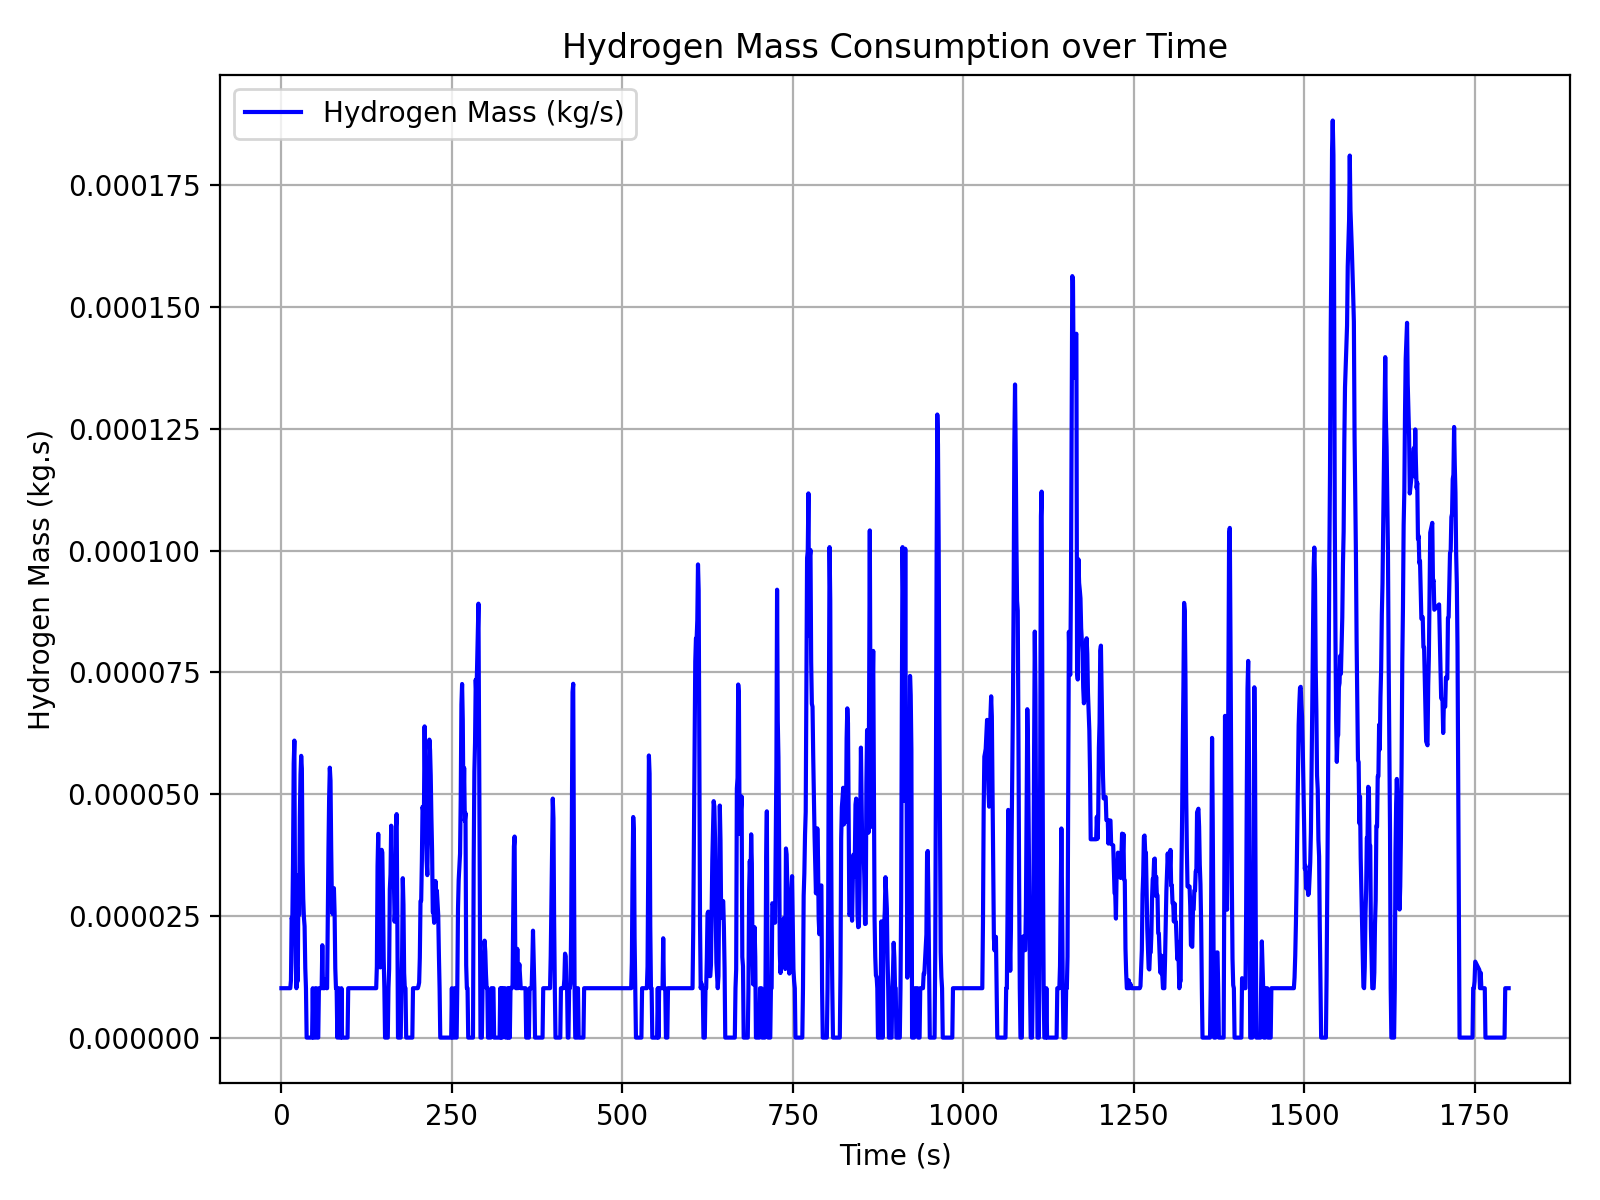
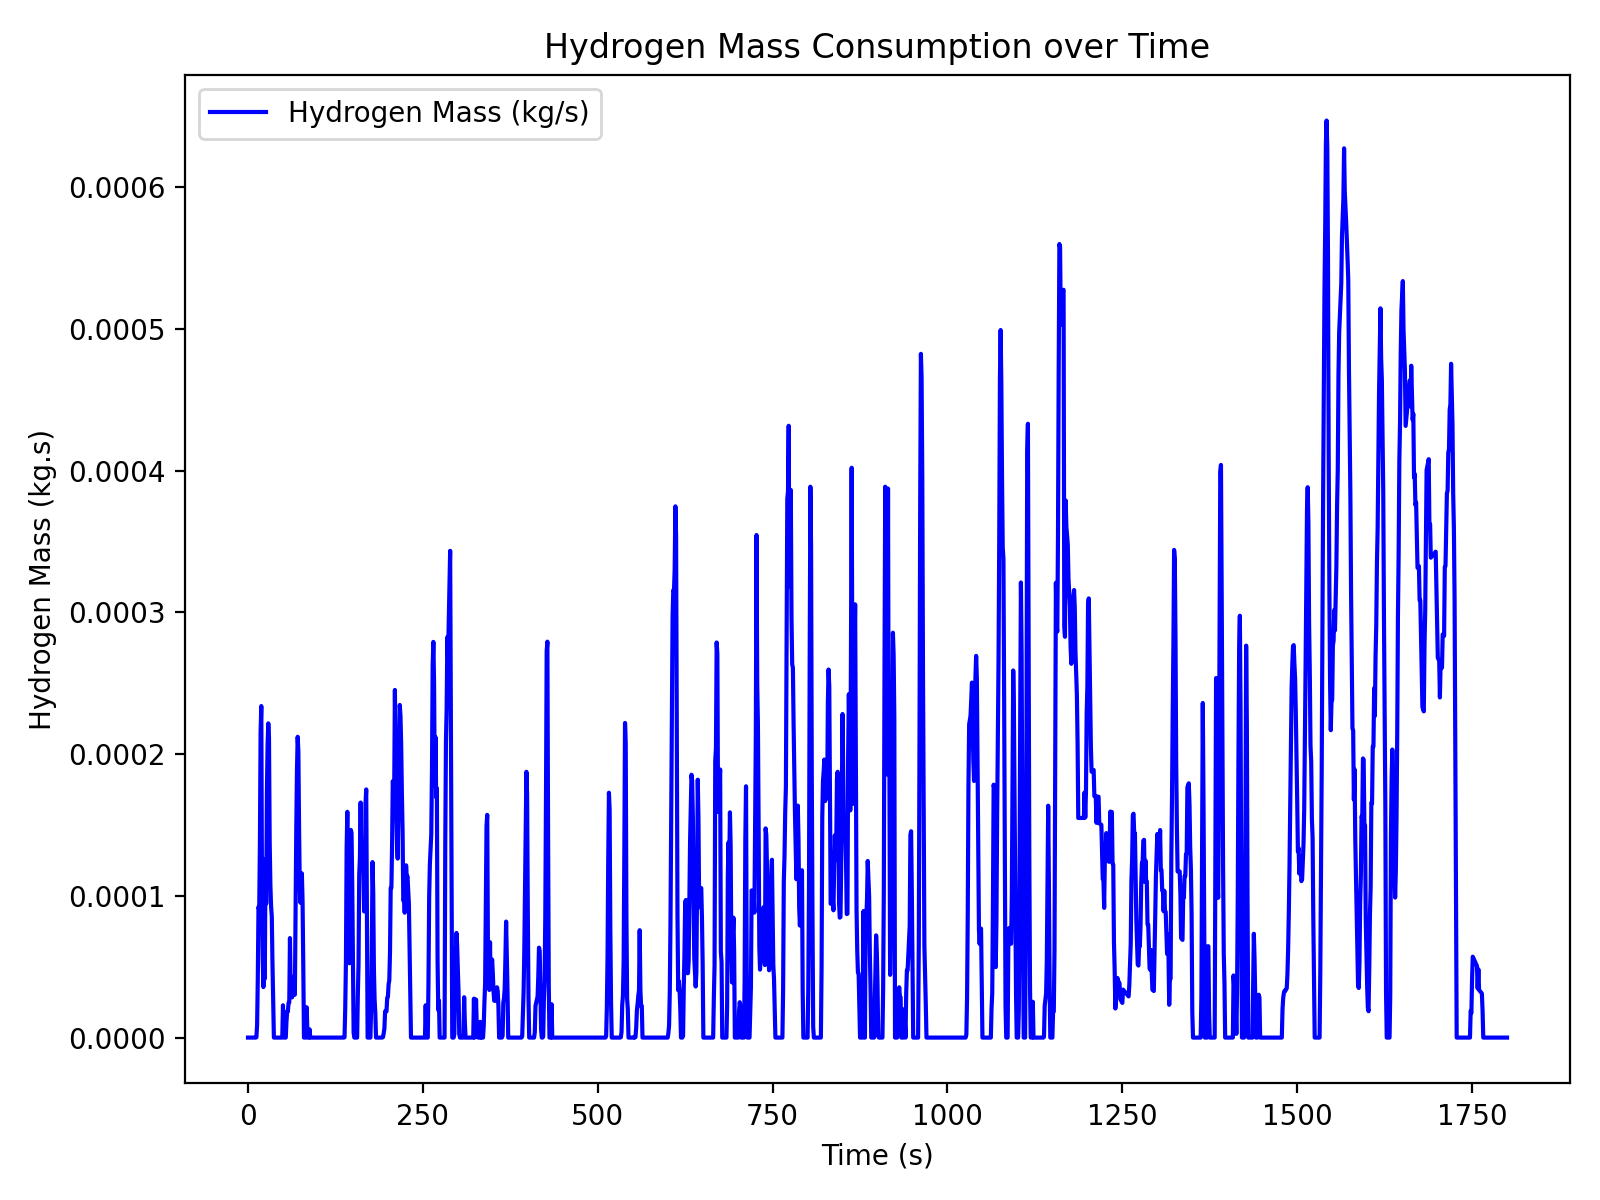
V29

diff --git a/Plot02_v2.py b/Plot02_v2.py
@@ -124,7 +124,7 @@ interpolated_current_density = interp_function(time)
 # Forces and power calculation based on speed
 v_s, acceleration, Fair, Frolling, Fcl = calculate_forces(time, speed)
 Instant_power, InP_Hybrid, Bat_motor_gen, Bat_motor_demand = calculate_power(time, v_s, acceleration, Fair, Frolling, Fcl)
-SoC, power_battery, Power_demand, power_hybrid = simulate_soc_and_power(time, InP_Hybrid)
+SoC, power_battery,power_fuel_cell, power_hybrid = simulate_soc_and_power(time, InP_Hybrid)
 
 #-------------------- WLTC and Polarization Curve Analysis ----------------------------#
 # Load the WLTC and polarization curve data
@@ -181,7 +181,7 @@ def compute_results_optimization(time, Power_demand, A_cell, polarization_curve,
                 i_t = calculate_current_density(I_stack, A_cell)  # Calculate current density
                 interpolated_value = interpolation_function(i_t.item())
                 result = (U_cell_guess - interpolated_value.item()) **2 # Squared difference for minimization
-                print(f"func({U_cell_guess}) = {result}")  # Debugging line to see the output
+                # print(f"func({U_cell_guess}) = {result}")  # Debugging line to see the output
                 return result
             
             # Perform optimization to find the root
@@ -192,7 +192,7 @@ def compute_results_optimization(time, Power_demand, A_cell, polarization_curve,
 
                 # Check for convergence
                 if abs(U_cell_new - U_cell) < threshold or iteration > 1000:
-                    print("Converged or exceeded iterations.")
+                    # print("Converged or exceeded iterations.")
                     break
                 
                 U_cell = U_cell_new  # Update U_cell for the next iteration
@@ -217,29 +217,82 @@ def compute_results_optimization(time, Power_demand, A_cell, polarization_curve,
 lb = 0  # Lower bound for U_cell
 ub = 0.85 # Upper bound for U_cell
 error =10e-10
-Result_optimization = compute_results_optimization(time, Power_demand, A_cell, polarization_curve, N_cells, lb, ub, error)
+Result_optimization = compute_results_optimization(time, Instant_power, A_cell, polarization_curve, N_cells, lb, ub, error)
 Result_optimization = pd.DataFrame(Result_optimization)
+I_cell = np.zeros(len(time))
+
 mass_hydro = np.zeros(len(time))
 for i in range(len(time)):
-    # Calculate hydrogen mass in grams and convert to kilograms
-    mass_hydro[i] = ((Result_optimization['I_stack'][i] * data['N_cell'][0] * data['Molar_mass_dihydrogen'][0]) / (2 * data['Faraday_const'][0])) / 1000  # Convert to kg
+    P_demand = Result_optimization['P_demand'][i]  # Power demand at each time step
+    U_cell = Result_optimization['U_cell'][i]      # Optimized cell voltage
+    if P_demand< 0: 
+        mass_hydro[i] = 0
+    else: 
+        if U_cell > 0:
+            I_cell[i] = P_demand / (U_cell * data['N_cell'][0])  # I_cell calculation
+        else:
+            I_cell[i] = 0  # Avoid division by zero if U_cell is 0
+        # Calculate hydrogen mass in grams and convert to kilograms
+        mass_hydro[i] = ((I_cell[i] * data['N_cell'][0] * data['Molar_mass_dihydrogen'][0]) / (2 * data['Faraday_const'][0])) / 1000  # Convert to kg
 # Calculate total hydrogen consumed in kg
 
-total_hydrogen_consumed = np.sum(mass_hydro * np.diff(time, prepend=0))  # Total in kg
+total_hydrogen_consumed = np.sum(mass_hydro)  # Total in kg
+# Constants (LHV for hydrogen, etc.)
+LHV_hydrogen = data['LHV'][0] * 1000  # Convert from kJ/mol to J/mol
+Molar_mass_h2 = data['Molar_mass_dihydrogen'][0] / 1000  # Convert to kg/mol
+
+# System efficiency calculation over time
+efficiency = np.zeros(len(time))
+
+for i in range(len(time)):
+    P_fuel_cell = Result_optimization['P_demand'][i]  # Power demand or power from the fuel cell
+    if mass_hydro[i] > 0:
+        # Energy from hydrogen (LHV * mass flow rate of H2)
+        energy_from_h2 = mass_hydro[i] * LHV_hydrogen / Molar_mass_h2
+        # System efficiency at each time step
+        efficiency[i] = P_fuel_cell / energy_from_h2 if energy_from_h2 > 0 else 0
+    else:
+        efficiency[i] = efficiency[i-1]  # Avoid division by zero
+
+# Calculate average efficiency over the entire cycle
+average_efficiency = np.mean(efficiency) * 100  # Convert to percentage
+distance_traveled = v_s * time
+total_distance = np.sum(distance_traveled)/1000
+print(total_distance)
+average_hydrogen_consumption = total_hydrogen_consumed*100 / total_distance if total_distance > 0 else 0
+
+# Print results
 print(f'Total hydrogen consumed: {total_hydrogen_consumed:.6f} kg')
+print(f'Average System Efficiency: {average_efficiency:.2f}%')
+print(f'Average Hydrogen Consumption: {average_hydrogen_consumption:.6f} kg(H2)/km')
+# Create a figure with two subplots
+plt.figure(figsize=(10, 8))
 
-# Plot hydrogen mass over time (linear)
-plt.figure(figsize=(8, 6))
+# Plot hydrogen mass consumption over time (subplot 1)
+plt.subplot(2, 1, 1)
 plt.plot(time, mass_hydro, 'b-', label='Hydrogen Mass (kg/s)')
-plt.title('Hydrogen Mass Consumption over Time')
+plt.title(f'Hydrogen Mass Consumption over Time\nTotal hydrogen consumed: {total_hydrogen_consumed:.6f} kg', fontsize=12)
 plt.xlabel('Time (s)')
-plt.ylabel('Hydrogen Mass (kg.s)')
+plt.ylabel('Hydrogen Mass (kg/s)')
+plt.ylim([min(mass_hydro),max(mass_hydro)*1.1])
+plt.xlim([time[0],len(time)])
 plt.legend()
-plt.grid(True)
-plt.tight_layout()
 
-# Save the plot as an image file
-plt.savefig('Hydrogen_Mass_Consumption.png', dpi=200)
+# Plot system efficiency over time (subplot 2)
+plt.subplot(2, 1, 2)
+plt.plot(time, efficiency * 100, 'm-', label='System Efficiency (%)')
+plt.title(f'System Efficiency over Time\nAverage System Efficiency: {average_efficiency:.2f}%', fontsize=12)
+plt.xlabel('Time (s)')
+plt.ylabel('Efficiency (%)')
+plt.xlim([time[0],len(time)])
+plt.ylim([min(efficiency * 100), max(efficiency * 100) * 1.1])  # Corrected here
+plt.legend()
 
-# Show the plot
+# Adjust layout to prevent overlap
+plt.tight_layout()  # Adjust the rect parameter to leave space for the suptitle
+
+# Save the combined plot as an image file
+plt.savefig('Hydrogen_Mass_and_Efficiency.png', dpi=200)
+
+# Show the combined plot
 plt.show()
